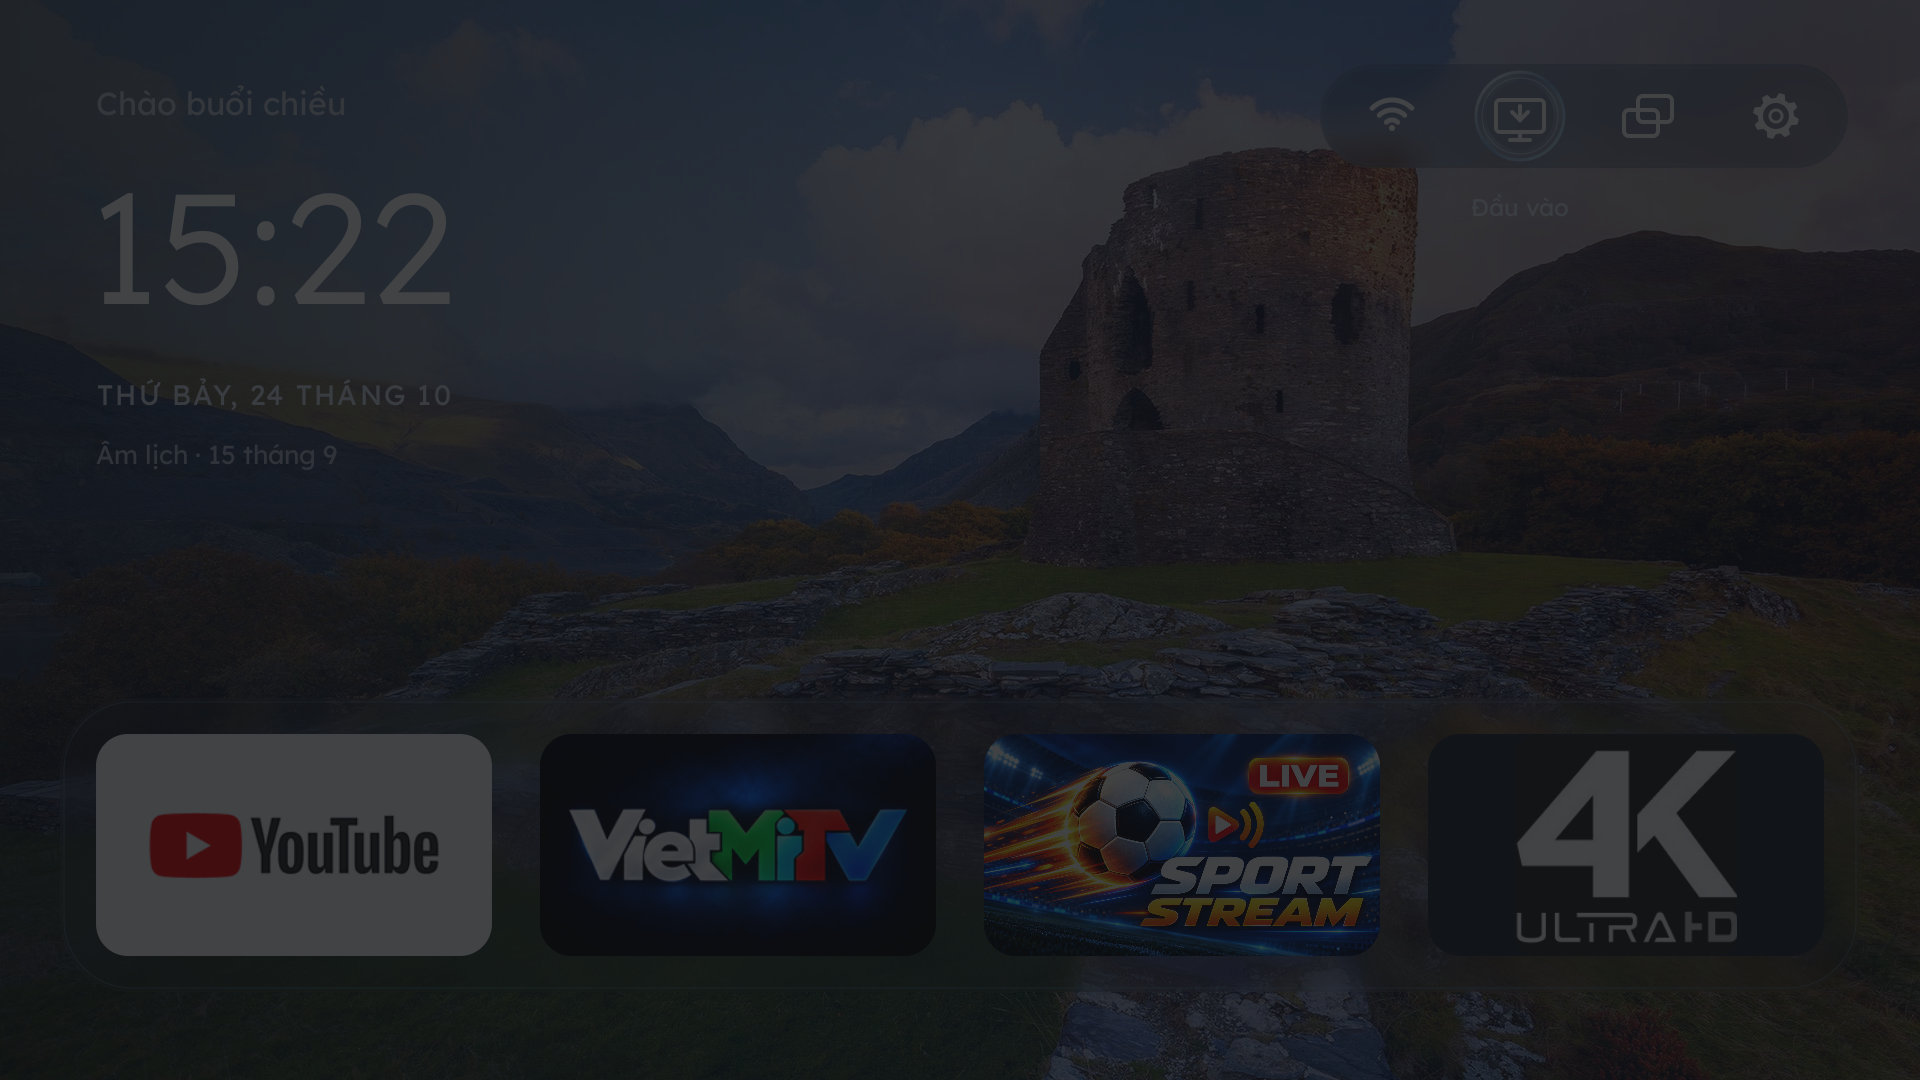
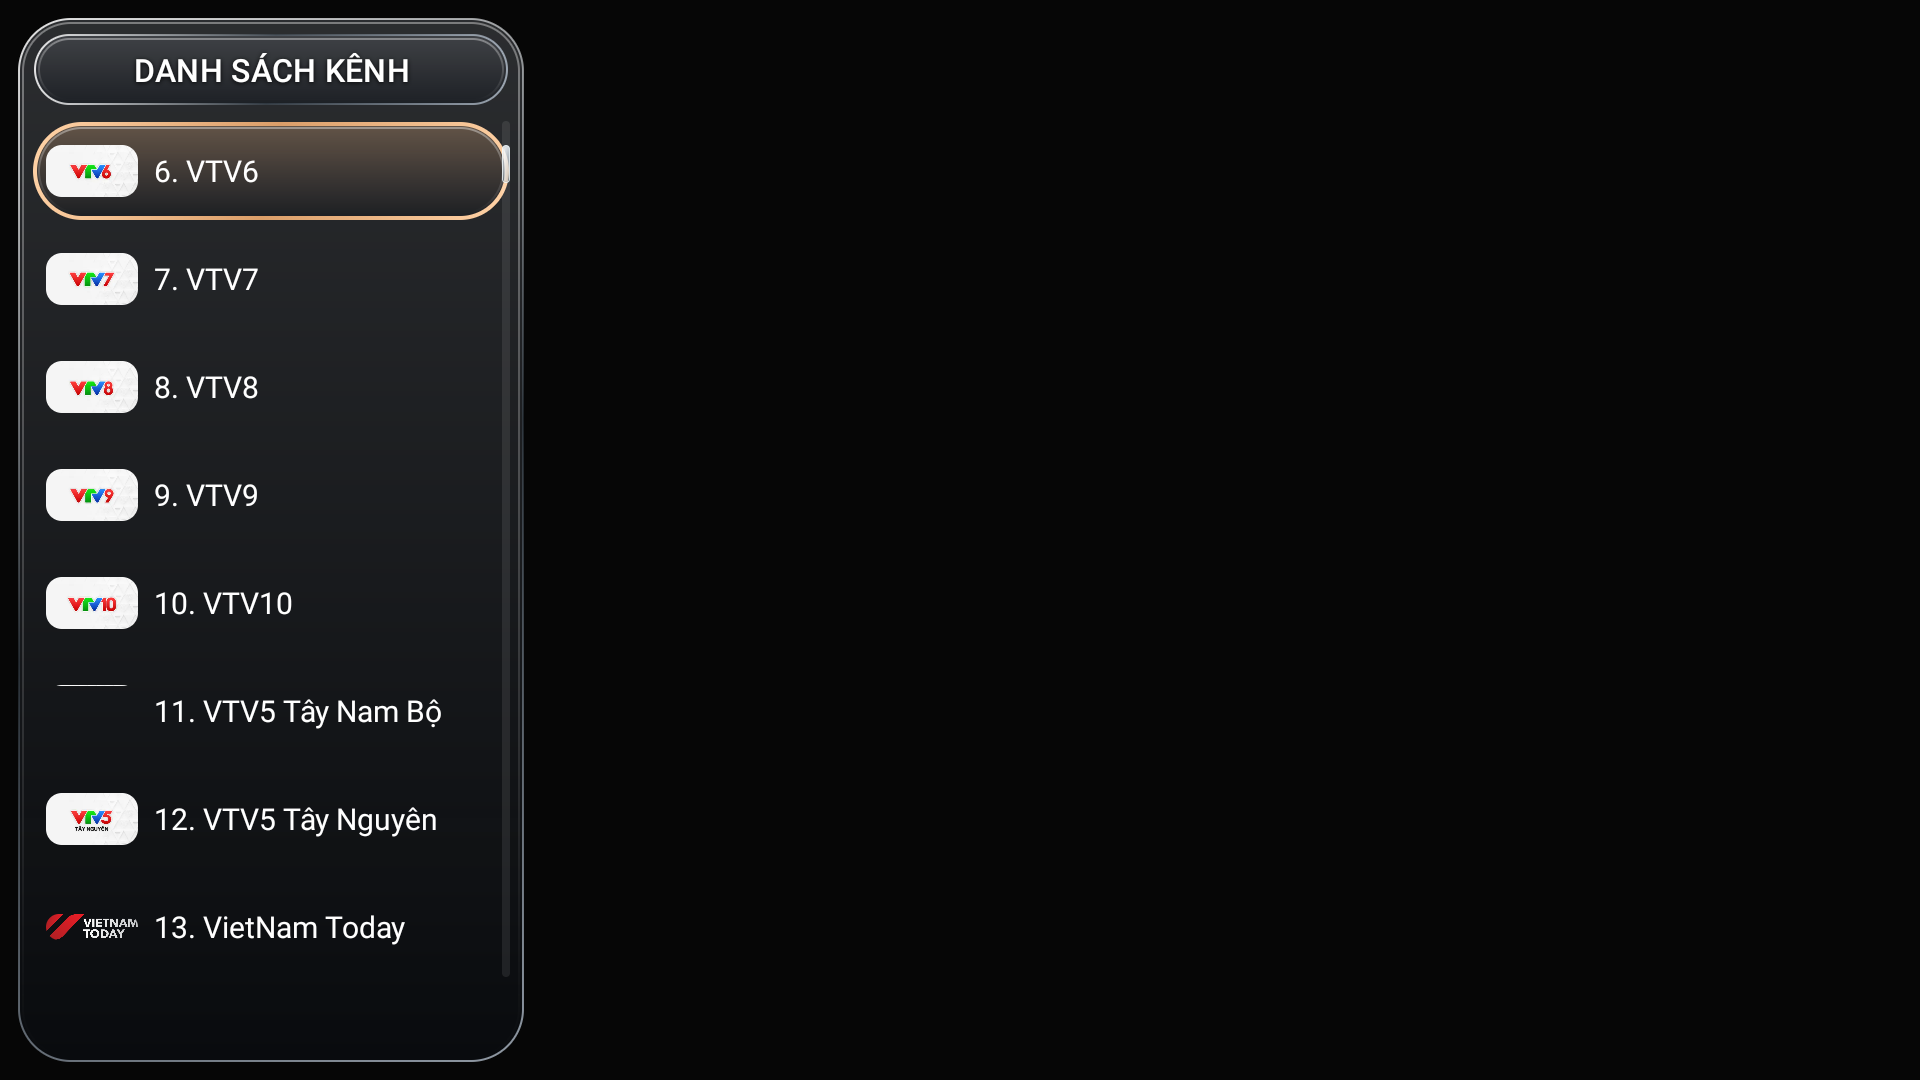
Apply full Liquid Glass styling and add Xiaomi TV device capture

diff --git a/style.css b/style.css
@@ -6,3 +6,9 @@
 @media(max-width:360px){.nav nav{gap:9px}.nav a{white-space:nowrap}.nav .brand{font-size:14px;gap:5px}.nav-download{padding:8px 10px}.nav nav a{font-size:9px}}
 @media(max-width:900px){.wrap{width:calc(100% - 48px)}.hero{padding-top:135px}.edition{display:none}.tv-scene{height:380px}.tv{width:84%}.tv-foot{bottom:27px}.feature{padding:23px}.feature-grid{grid-template-columns:1fr 1fr}.feature-wide{grid-column:span 2}.remote-feature{grid-column:auto;min-height:360px}.detail-feature{grid-column:auto;min-height:360px}.detail-feature img{height:140px;object-fit:cover}.update-feature{grid-column:span 2;min-height:230px}.service-grid{gap:25px}.service-intro{display:block}.service-intro>p{margin-top:24px}.service-art{height:240px}.mini-tv{padding:20px 12px;width:72%}.mini-tv strong{font-size:28px}.box-art{gap:25px}.device-phone{width:85px;height:180px}.device-phone>span{font-size:48px}.device-box{width:100px}.connection-line{width:25px}.download-section{gap:40px}.support-section{padding:40px}.support-section h2{font-size:38px}.coffee-art{min-width:210px;width:210px}.steam{left:90px}footer{flex-wrap:wrap}footer p{display:none}}
 @media(max-width:600px){.wrap{width:calc(100% - 36px)}.nav{top:12px;width:calc(100% - 24px);gap:8px;padding:9px 10px 9px 15px}.brand{font-size:16px}.brand-mark{font-size:20px}.nav nav{gap:13px;font-size:10px}.nav nav a:first-child{display:none}.nav .version{display:none}.nav-download{padding:8px 12px;font-size:10px}.hero{padding-top:115px}.eyebrow{font-size:8px}.hero h1{margin-top:24px;font-size:clamp(60px,13vw,80px)}.hero-bottom{display:block}.hero-bottom p{font-size:12px}.hero-bottom .button{margin-top:24px}.tv-scene{height:250px;margin-top:32px;border-radius:14px}.tv{width:88%;padding:5px 5px 0;border-radius:6px}.tv-screen{border-radius:2px}.tv-logo{font-size:4px;line-height:9px}.screen-title strong{font-size:clamp(17px,4vw,23px);margin-top:9px}.screen-title>span{font-size:4px}.sun{width:48px;height:48px}.demo-bar{padding:6px 10px;font-size:7px;gap:8px;bottom:14%}.live{font-size:5px}.live i{width:3px;height:3px}.demo-quality{font-size:5px}.illustration{font-size:4px}.tv-foot{height:22px;width:90px;left:calc(50% - 45px);bottom:16px}.shelf{bottom:14px;left:5%;right:5%;height:3px}.hero-caption{font-size:8px;align-items:center;padding:16px 0}.hero-caption>span:first-child{font-size:6px;max-width:75px}.hero-caption>span:nth-child(2){max-width:170px;text-align:right}.section{padding-top:72px;padding-bottom:64px}.section-heading .eyebrow{margin-bottom:19px}.feature-grid{margin-top:30px;gap:14px;grid-template-columns:1fr}.feature-wide{grid-column:auto;min-height:450px;display:block;padding-bottom:0}.feature-copy{width:100%}.feature h3{font-size:27px}.feature p{font-size:12px}.feature-no{margin-bottom:16px}.channel-crop{width:100%;height:210px;margin-top:25px;margin-bottom:0;border-radius:12px 12px 0 0}.channel-crop img{width:225%;height:auto;object-fit:initial;transform:translateY(-10px)}.image-tag{top:28px;right:23px;bottom:auto;left:auto;font-size:6px}.remote-feature{min-height:340px;padding-right:150px}.remote-feature h3{font-size:26px}.remote{position:absolute;right:12px;top:80px;width:110px;transform:rotate(-12deg)}.remote-ring{height:80px}.detail-feature{min-height:310px;padding-bottom:0}.detail-feature img{height:130px;margin-top:22px}.update-feature{grid-column:auto;min-height:290px}.service-grid{grid-template-columns:1fr;gap:45px;margin-top:30px}.service-art{height:250px;margin-bottom:24px}.service-grid h3{font-size:29px}.service-grid article>p:not(.eyebrow){min-height:0}.service-grid .button{margin-top:20px}.service-steps{gap:15px;align-items:start;margin-top:35px;font-size:9px}.service-steps span{flex:1}.service-steps b{display:block;margin-bottom:7px}.contact-strip{display:block}.contact-strip>div{margin-top:17px;gap:22px}.download-section{grid-template-columns:1fr;gap:30px}.install-steps li{padding:22px 0}.support-section{padding:35px 27px;display:block}.support-section h2{font-size:36px}.support-section p:not(.eyebrow){font-size:11px}.support-section p br{display:none}.coffee-art{height:230px;margin:30px auto 0}.faq h2{font-size:28px}.faq summary{font-size:12px}.faq details p{font-size:11px}footer{gap:18px;justify-content:space-between}footer .brand{font-size:17px}footer button{font-size:8px}dialog{padding:40px 22px 25px}dialog h2{font-size:27px}}
+/* Liquid Glass across the complete surface. */
+body{background:radial-gradient(ellipse at 10% 18%,#38473266,transparent 38%),radial-gradient(ellipse at 90% 48%,#3a4b3460,transparent 35%),#101511;background-attachment:fixed}
+.feature,.support-section,.install-steps,.faq details,.service-grid article{background:linear-gradient(145deg,#ffffff16,#ffffff03 45%,#c6ff8b08),rgba(23,31,23,.78);border:1px solid #e5ffd537;box-shadow:inset 0 1px 1px #ffffff75,inset 0 -1px 1px #ffffff14,0 18px 40px #0002;backdrop-filter:blur(24px) saturate(155%);-webkit-backdrop-filter:blur(24px) saturate(155%)}
+.feature,.support-section,.service-grid article{border-radius:28px}.feature-grid{gap:20px}.services{background:linear-gradient(145deg,#dcebc612,#97b18208);color:var(--ink);border-block:1px solid #ffffff18}.services p{color:#b5c2ac}.services .eyebrow{color:var(--accent)}.service-intro h2 span{color:#a4b497}.service-grid article{padding:22px}.service-grid article>h3,.service-grid article>p,.service-grid article>.button{margin-left:5px;margin-right:5px}.services .button{--glass:rgba(43,58,33,.85);color:var(--ink);border-color:#e5ffd53d;box-shadow:inset 0 1px 1px #fff9,inset 0 -1px 1px #fff1,0 5px 15px #0002}.services .button:hover{background-color:#465a34}.service-art{border-radius:20px}.service-steps{border-color:#d3ebbb33}.service-steps b{color:#c1dba9}.contact-strip{color:#d1dfc4}.install-steps{padding:10px 28px;border-radius:28px}.install-steps li:last-child{border-bottom:0}.faq details{border-radius:22px;margin-bottom:12px;padding:0 23px}.faq summary{padding-right:30px}.faq details p{padding-right:10px}.nav{--glass:rgba(24,34,24,.85)}.device-photo{margin:38px 0 0;padding:22px;background:#131b14;border:1px solid #ffffff26;border-radius:24px;display:grid;grid-template-columns:220px 1fr;gap:35px;align-items:center}.device-photo-frame{height:240px;overflow:hidden;border-radius:16px;background:#000}.device-photo img{max-width:none;height:100%;width:auto}.device-photo figcaption{font-size:12px;color:#b6c2ac}.device-photo figcaption strong{display:block;font-size:23px;color:var(--ink);letter-spacing:-.04em;margin-bottom:10px}.device-photo figcaption small{display:block;margin-top:12px;color:#94a18a;font-size:10px}.reduce-transparency .feature,.reduce-transparency .support-section,.reduce-transparency .install-steps,.reduce-transparency .faq details,.reduce-transparency .service-grid article,.reduce-transparency .services .glass{backdrop-filter:none;-webkit-backdrop-filter:none;background:#202c20}
+@media(prefers-reduced-transparency:reduce){.feature,.support-section,.install-steps,.faq details,.service-grid article,.services .glass{backdrop-filter:none;-webkit-backdrop-filter:none;background:#202c20}}
+@media(max-width:600px){.service-grid article{padding:18px}.service-art{height:220px}.feature-grid{gap:15px}.install-steps{padding:5px 20px}.device-photo{grid-template-columns:100px 1fr;gap:18px;padding:18px}.device-photo-frame{height:190px}.device-photo figcaption{font-size:10px}.device-photo figcaption strong{font-size:18px}.device-photo figcaption small{font-size:8px}.nav nav{gap:10px}.nav a{white-space:nowrap}.nav .brand{font-size:14px;gap:5px}.nav-download{padding:8px 10px}.nav nav a{font-size:9px}}

diff --git a/index.html b/index.html
@@ -40,7 +40,7 @@
       <div class="wrap"><div class="service-intro"><div><p class="eyebrow">02 / DỊCH VỤ VIỆT XIAOMI</p><h2>TV của bạn.<br><span>Để mình lo.</span></h2></div><p>Hỗ trợ cài đặt từ xa qua điện thoại hoặc máy tính.<br>Bạn ở nhà, mình đồng hành trong từng bước.</p></div>
       <div class="service-grid"><article><div class="service-art xiaomi-art" aria-hidden="true"><span class="mi-symbol">mi</span><div class="mini-tv"><span>你好</span><strong>Xin chào.</strong><small>MỘT TRẢI NGHIỆM QUEN THUỘC HƠN</small></div><span class="art-label">XIAOMI TV</span></div><p class="eyebrow">DÀNH CHO TV XIAOMI NỘI ĐỊA</p><h3>TV nội địa.<br>Trải nghiệm gần gũi hơn.</h3><p>Tiếp nhận thông tin model, kiểm tra thiết bị và tư vấn cài ứng dụng phù hợp cho TV Xiaomi nội địa của bạn.</p><a class="button glass" href="https://zalo.me/0343220893" target="_blank" rel="noopener noreferrer">Tư vấn TV Xiaomi <span aria-hidden="true">↗</span></a></article>
       <article><div class="service-art box-art" aria-hidden="true"><div class="device-phone"><div>VIỆT XIAOMI</div><span>↗</span><small>KẾT NỐI TỪ XA</small></div><div class="connection-line"></div><div class="device-box">TV BOX<span></span></div><span class="art-label">REMOTE SETUP</span></div><p class="eyebrow">DÀNH CHO TV & TV BOX</p><h3>Không cần mang đi.<br>Cài ngay tại nhà.</h3><p>Cài ứng dụng cho TV và TV Box từ xa qua điện thoại hoặc máy tính. Trao đổi nhu cầu và tình trạng thiết bị trước khi thực hiện.</p><a class="button glass" href="https://zalo.me/0343220893" target="_blank" rel="noopener noreferrer">Hẹn hỗ trợ từ xa <span aria-hidden="true">↗</span></a></article></div>
-      <div class="service-steps"><span><b>01</b> Gửi model & nhu cầu</span><span><b>02</b> Kiểm tra & tư vấn</span><span><b>03</b> Hẹn giờ cài từ xa</span></div>
+      <figure class="device-photo"><div class="device-photo-frame"><img src="assets/tv150.png" width="1920" height="1080" loading="lazy" alt="Ảnh chụp trực tiếp danh sách kênh VietMiTV nội địa v4.8 trên TV Xiaomi .150"></div><figcaption><strong>Giao diện thật. Trên TV thật.</strong>Danh sách kênh VietMiTV trên TV Xiaomi nội địa, chụp trực tiếp từ thiết bị đang hoạt động.<small>Thiết bị .150 · VietMiTV nội địa v4.8 · Ảnh minh họa dịch vụ, khác bản v22 quốc tế. Lớp video không được ghi lại trong ảnh.</small></figcaption></figure><div class="service-steps"><span><b>01</b> Gửi model & nhu cầu</span><span><b>02</b> Kiểm tra & tư vấn</span><span><b>03</b> Hẹn giờ cài từ xa</span></div>
       <div class="contact-strip"><span>Trao đổi trực tiếp với <strong>Việt Xiaomi</strong></span><div><a href="tel:+84343220893">0343.22.08.93</a><a href="https://zalo.me/0343220893" target="_blank" rel="noopener noreferrer">Zalo ↗</a><a href="https://fb.com/vietxiaomi93" target="_blank" rel="noopener noreferrer">Facebook ↗</a></div></div>
       </div>
     </section>
